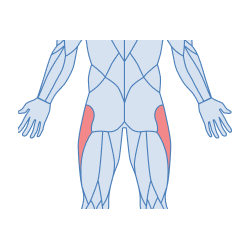
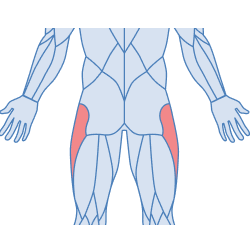
updated images to standardize size, refactor muscle select to only set state after dismiss

Changed region(s): [[0.0, 0.112, 1.0, 0.924]]

diff --git a/components/screens/MuscleOverlay.tsx b/components/screens/MuscleOverlay.tsx
@@ -1,34 +1,45 @@
-import React, { useState } from "react";
+import React, { useEffect, useMemo, useState } from "react";
 import tw from 'twrnc'
 import { useGet } from "../../hooks/useGet";
 import { Muscles } from "../../assets/muscles/muscles";
 import Overlay from "./Overlay";
 import { View, Text } from "../base/Themed";
-import { Image, ScrollView, TouchableOpacity } from "react-native";
+import { Image, ScrollView } from "react-native";
 import Spacer from "../base/Spacer";
 import { _tokens } from "../../tamagui.config";
 import { ExpoIcon } from "../base/ExpoIcon";
+import { TouchableOpacity } from "@gorhom/bottom-sheet";
+import { FlashList } from "@shopify/flash-list";
 
-export default function MuscleOverlay(props: {onSelect?: (item: keyof typeof Muscles, selected?: boolean) => void; selected?: (keyof typeof Muscles)[], visible: boolean, onDismiss: () => void}) {
+export default function MuscleOverlay(props: {onSelect?: (items: (keyof typeof Muscles)[]) => void; selected?: (keyof typeof Muscles)[], visible: boolean, onDismiss: () => void}) {
     let g = useGet()
     const dm = g.dm
     const muscles = Object.keys(Muscles) as (keyof typeof Muscles)[]
+    let [selectedMuscles, setSelectedMuscles] = useState<(keyof typeof Muscles)[]>([])
     const [selectedEquipment, setSelectedEquipment] = useState<keyof typeof Muscles | null>(null)
+    useEffect(() => {
+        setSelectedMuscles(props.selected)
+    }, [props.selected])
     return (
-        <Overlay ignoreBackdrop dialogueHeight={65} id="muscles-overlay" visible={props.visible} onDismiss={props.onDismiss}>
+        <Overlay ignoreBackdrop dialogueHeight={65} id="muscles-overlay" visible={props.visible} onDismiss={() => {
+            props.onSelect && props.onSelect(selectedMuscles)
+            props.onDismiss && props.onDismiss()
+        }}>
         <Text h4 bold>Muscles</Text>
             <Spacer  />
-            <View style={{...tw`flex-row flex-wrap justify-between items-center`}}>
-            {muscles.map(item => {
-                const selected = (props.selected || []).includes(item)
-                return <TouchableOpacity onLongPress={() => setSelectedEquipment(item)} onPress={() => {
-                    if (props.onSelect) {
-                        props.onSelect(item, selected)
-                    }
-                }} key={`Equiptment Search=` + item}>
-                    <MuscleTile item={item} selected={selected} />
-                </TouchableOpacity>
-            })}
+            <View style={tw`flex-row items-center flex-wrap self-center w-12/12`}>
+                {muscles.map(item => {
+                    const selected = (selectedMuscles).includes(item)
+                    return <TouchableOpacity style={tw`ml-1`} onLongPress={() => setSelectedEquipment(item)} onPress={() => {
+                        if (selected) {
+                            setSelectedMuscles(p => [...(p || [])].filter(x => x !== item))
+                        } else {
+                            setSelectedMuscles(p => [...(p || []), item])
+                        }
+                    }} key={`Muscle=` + item}>
+                        <MuscleTile item={item} selected={selected} />
+                    </TouchableOpacity>
+                })}
             </View>
             <Spacer xl/>
         </Overlay>
@@ -39,12 +50,13 @@ export const MuscleTile = (props: {item: keyof typeof Muscles, selected?: boolea
     let g = useGet()
     let dm = g.dm
     const borderRadius = (g.s.width * 0.3) / 15
-    let {item, selected} = props;
-    return <View style={{width: g.s.width * 0.3, height: g.s.width * 0.3, borderRadius: borderRadius, backgroundColor: dm ? _tokens.dark2 : _tokens.gray200,  ...tw`items-center mb-2`}}>
+    let {item: _item, selected: _selected} = props;
+    let {item, selected} = useMemo(() => ({item: _item, selected: _selected}), [props.selected, props.item])
+    return <View style={{width: g.s.width * 0.3, height: g.s.width * 0.3, borderRadius: borderRadius, backgroundColor: (dm ? _tokens.dark2 : _tokens.gray200) + '90',  ...tw`items-center mb-2`}}>
         <View style={{...tw`w-12/12 py-1`, backgroundColor: selected ? _tokens.primary900 : (dm ? _tokens.dark2 : _tokens.gray200), borderTopRightRadius: borderRadius, borderTopLeftRadius: borderRadius}}>
         <View style={tw`flex-row items-center ${selected ? 'justify-between px-1' : 'justify-center'}`}>
         <Text bold center white={selected}>{item}</Text>
-        {selected && <ExpoIcon name="checkbox" iconName="ion" size={20} color="white" />}
+        {selected && <ExpoIcon name="checkbox" iconName="ion" size={15} color="white" />}
         </View>
         </View>
         <Image source={Muscles[item].image} style={tw`h-9/12 w-9/12`} />

diff --git a/screens/workout/ExerciseDetail.tsx b/screens/workout/ExerciseDetail.tsx
@@ -203,9 +203,9 @@ export default function ExerciseDetail(props: ExerciseDetailProps) {
                     <ManageButton title='Muscular Profile' buttonText='Manage' onPress={() => setShowMuscles(true)} hidden={!screenForm.editMode} />
                     <Spacer  />
                     {(!form.muscles?.length) && <NothingToDisplay text='No Associated Muscles' />}
-                    <View style={{...tw`flex-row flex-wrap justify-between items-center`}}>
+                    <View style={{...tw`flex-row flex-wrap items-center -mx-1 self-center`}}>
             {(form.muscles || []).map(item => {
-                return <TouchableOpacity key={`Equiptment Search=` + item}>
+                return <TouchableOpacity style={tw`mr-1`} key={`Equiptment Search=` + item}>
                     <MuscleTile item={item} selected={false} />
                 </TouchableOpacity>
             })}
@@ -236,13 +236,7 @@ export default function ExerciseDetail(props: ExerciseDetailProps) {
                     }
                 }} />
             </Overlay>
-            <MuscleOverlay selected={(form.muscles || [])} onSelect={(m, s) => {
-                if (s) {
-                    setForm('muscles', [...(form.muscles || [])].filter(z => z !== m))
-                } else {
-                    setForm('muscles', [...(form.muscles || []), m])
-                }
-            }} visible={showMuscles} onDismiss={() => setShowMuscles(false)} />
+            <MuscleOverlay selected={(form.muscles || [])} onSelect={i => setForm('muscles', i)} visible={showMuscles} onDismiss={() => setShowMuscles(false)} />
             <EquipmentDetailsOverlay selectedEquipment={selectedEquipment} onDismiss={() => setSelectedEquipment(null)} />
             <SaveButton discludeBackground title={props.workoutId ? 'Add to Workout' : screenForm.editMode ? 'Save Exercise' : 'See Workouts'} uploading={screenForm.uploading} onSave={saveExercise} favoriteId={form.id} favoriteType='exercise' />
         </View>
